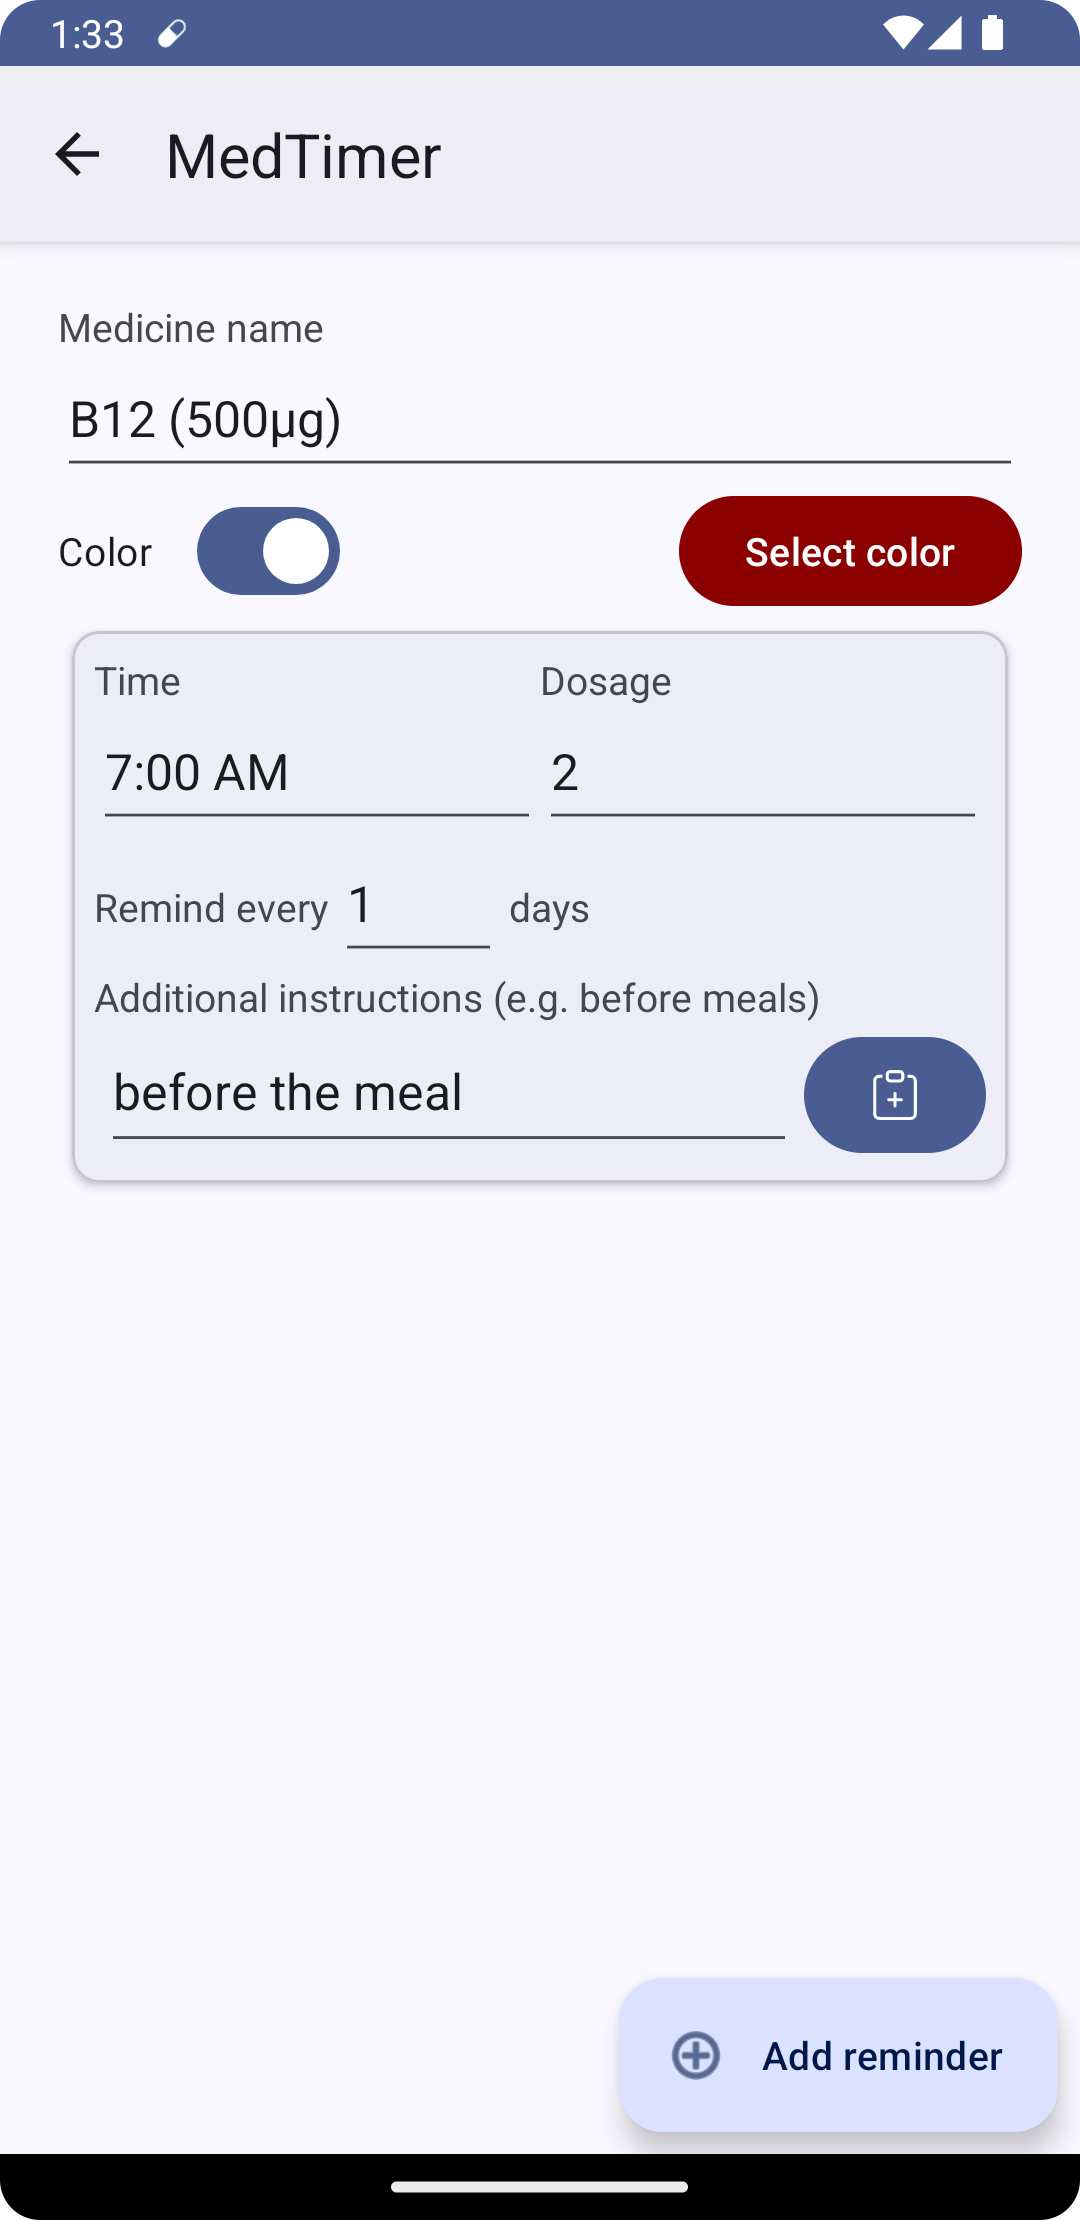
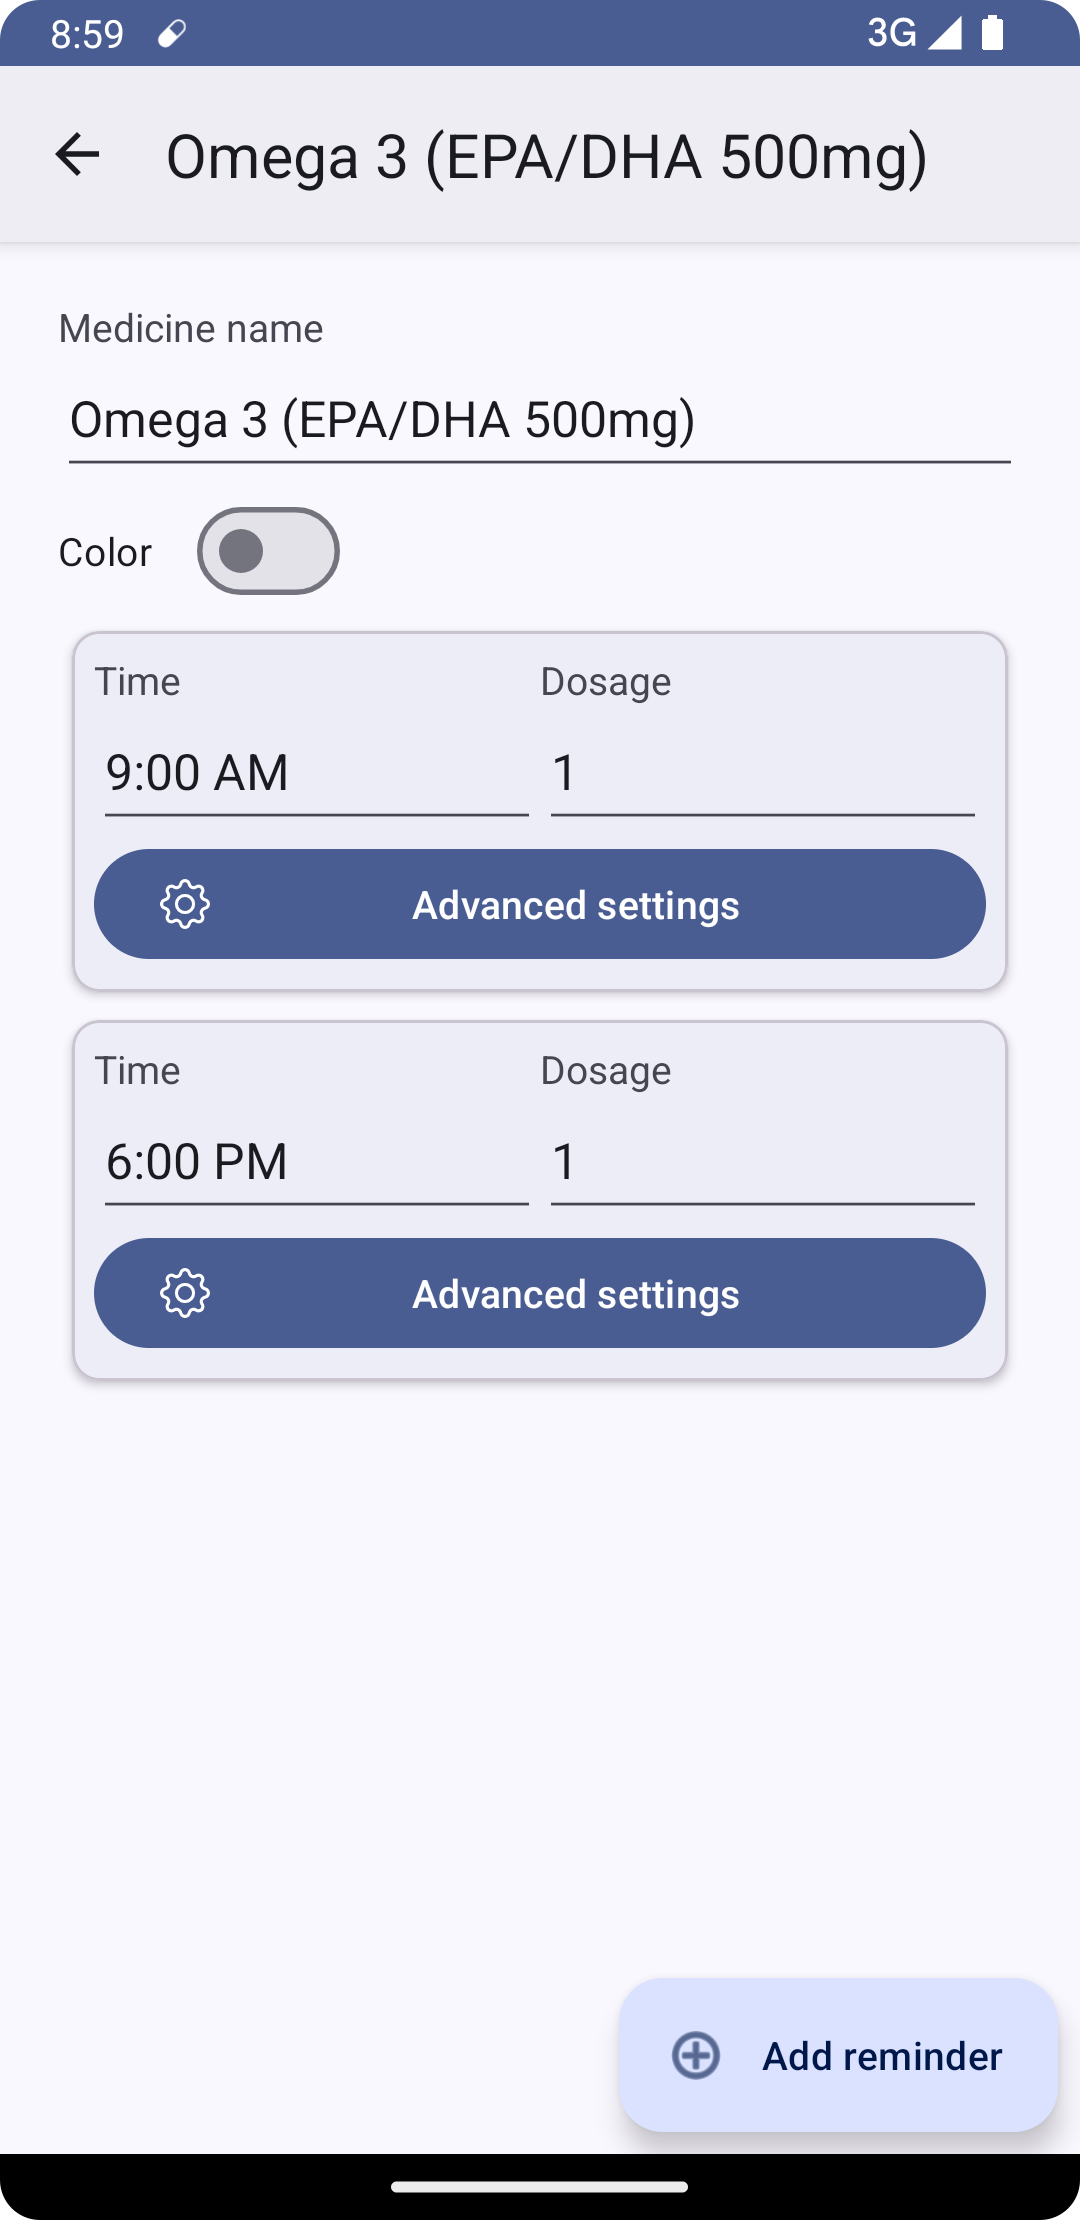
Advanced reminders bugfixes (#80)
* Optimized day select view

* Create aab file also on non-tag builds

* Bumped version to v1.7.0-rc.1

* Added new feature of v1.7.0
Added French play store entry

* Screenshots updated

* Bumped version to v1.7.0

* Minor code simplification

diff --git a/app/src/main/java/com/futsch1/medtimer/medicine/EditMedicine.java b/app/src/main/java/com/futsch1/medtimer/medicine/EditMedicine.java
@@ -78,24 +78,10 @@ public class EditMedicine extends AppCompatActivity {
         editMedicineName.setText(medicineName);
 
         boolean useColor = getIntent().getBooleanExtra(EXTRA_USE_COLOR, false);
-        enableColor = findViewById(R.id.enableColor);
-        enableColor.setChecked(useColor);
-        enableColor.setOnCheckedChangeListener((buttonView, isChecked) -> colorButton.setVisibility(isChecked ? View.VISIBLE : View.GONE));
-
+        setupEnableColor(useColor);
         setupColorButton(useColor);
 
-        // Swipe to delete
-        swipeHelper = new SwipeHelper(Color.RED, android.R.drawable.ic_menu_delete, this) {
-            @Override
-            public void onSwiped(@NonNull final RecyclerView.ViewHolder viewHolder, int direction) {
-                if (direction == ItemTouchHelper.LEFT) {
-                    EditMedicine.this.deleteItem(EditMedicine.this, viewHolder.getItemId(), viewHolder.getAdapterPosition());
-                }
-            }
-        };
-        ItemTouchHelper itemTouchHelper = new ItemTouchHelper(swipeHelper);
-        itemTouchHelper.attachToRecyclerView(recyclerView);
-
+        setupSwiping(recyclerView);
         setupAddReminderButton();
 
         // Observe the LiveData, passing in this activity as the LifecycleOwner and the observer.
@@ -127,6 +113,12 @@ public class EditMedicine extends AppCompatActivity {
         });
     }
 
+    private void setupEnableColor(boolean useColor) {
+        enableColor = findViewById(R.id.enableColor);
+        enableColor.setChecked(useColor);
+        enableColor.setOnCheckedChangeListener((buttonView, isChecked) -> colorButton.setVisibility(isChecked ? View.VISIBLE : View.GONE));
+    }
+
     private void setupColorButton(boolean useColor) {
         color = getIntent().getIntExtra(EXTRA_COLOR, Color.DKGRAY);
         colorButton = findViewById(R.id.selectColor);
@@ -150,6 +142,19 @@ public class EditMedicine extends AppCompatActivity {
             new Handler(getMainLooper()).post(() -> builder.getColorPickerView().setInitialColor(color));
         });
         colorButton.setVisibility(useColor ? View.VISIBLE : View.GONE);
+    }
+
+    private void setupSwiping(RecyclerView recyclerView) {
+        swipeHelper = new SwipeHelper(Color.RED, android.R.drawable.ic_menu_delete, this) {
+            @Override
+            public void onSwiped(@NonNull final RecyclerView.ViewHolder viewHolder, int direction) {
+                if (direction == ItemTouchHelper.LEFT) {
+                    EditMedicine.this.deleteItem(EditMedicine.this, viewHolder.getItemId(), viewHolder.getAdapterPosition());
+                }
+            }
+        };
+        ItemTouchHelper itemTouchHelper = new ItemTouchHelper(swipeHelper);
+        itemTouchHelper.attachToRecyclerView(recyclerView);
     }
 
     private void setupAddReminderButton() {

diff --git a/README.md b/README.md
@@ -9,13 +9,14 @@ The app is built targeting SDK 34 and requiring SDK 33 (>= Android 13) making us
 database and Material 3 theming.
 
 [<img src="https://fdroid.gitlab.io/artwork/badge/get-it-on.png"
-     alt="Get it on F-Droid"
-     height="80">](https://f-droid.org/packages/com.futsch1.medtimer/)
+alt="Get it on F-Droid"
+height="80">](https://f-droid.org/packages/com.futsch1.medtimer/)
 [<img src="https://play.google.com/intl/en_us/badges/images/generic/en-play-badge.png"
-     alt="Get it on Google Play"
-     height="80">](https://play.google.com/store/apps/details?id=com.futsch1.medtimer)
+alt="Get it on Google Play"
+height="80">](https://play.google.com/store/apps/details?id=com.futsch1.medtimer)
 
-Or download the latest APK from the [Releases Section](https://github.com/Futsch1/medTimer/releases/latest).
+Or download the latest APK from
+the [Releases Section](https://github.com/Futsch1/medTimer/releases/latest).
 
 ## Description
 
@@ -29,23 +30,30 @@ Or download the latest APK from the [Releases Section](https://github.com/Futsch
   <img src="app/src/main/play/listings/en-US/graphics/phone-screenshots/3.png" width="150" />
   &nbsp;
   <img src="app/src/main/play/listings/en-US/graphics/phone-screenshots/4.png" width="150" />
+
+  <img src="app/src/main/play/listings/en-US/graphics/phone-screenshots/5.png" width="150" />
 </p>
 
 Stay In Control of Your Medications with MedTimer
 
-MedTimer is an open-source medication reminder app designed to help you manage your medications
-effectively and with full control of your sensitive data.
+MedTimer is an open-source medication reminder app designed to help you manage your medications and
+pills effectively and with full control of your sensitive data.
 
 Flexible & Personalized Reminders:
 
-- Add unlimited medications with multiple daily reminders per medication.
-- Customize reminders to fit your unique dosing schedule.
+- Manage unlimited medications with customizable reminders per medication (including simple defaults
+  for daily reminders).
+- Create flexible reminders with breaks and specific days (e.g. for birth control pills).
+- Weekend mode: Delay reminders to a defined time on chosen days.
+- Snooze notifications for later reminders.
+- Add extra doses on the fly.
 
 Simple & Secure Data Management:
 
 - Confirm or dismiss reminders to record medication adherence accurately.
 - Export your medication history as a CSV file for easy record-keeping or sharing with healthcare
   professionals.
+- Backup and restore your medication list as JSON file.
 
 Privacy & Offline Accessibility:
 
